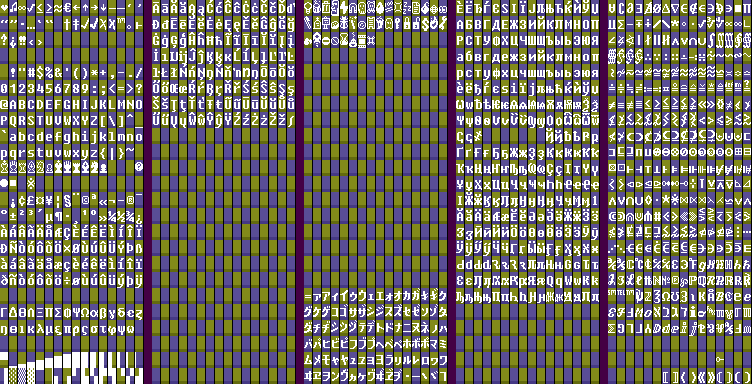
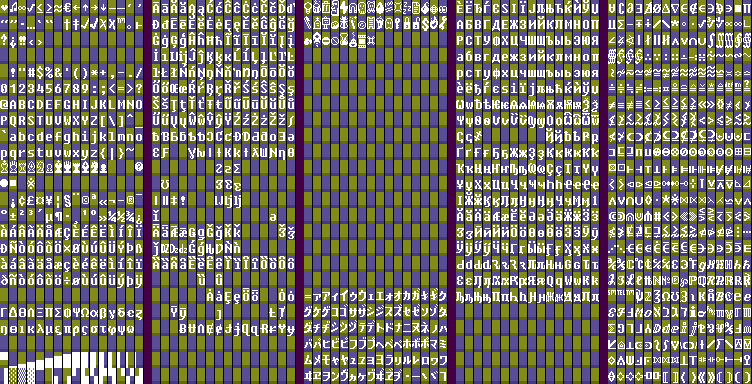
Bunch of Latin Extended-B chars in fixedersys1
git-svn-id: file:///home/runner/work/tom7misc-sync-action/tom7misc-sync-action/upstream/trunk@6498 c7e11af0-4c7a-11f1-9edd-117cb6f09d55

diff --git a/bit7/font-image.cc b/bit7/font-image.cc
@@ -350,27 +350,239 @@ const std::vector<int> &PageBit7LatinAB() {
     0x017E,  // (ž) Latin Small letter Z with caron
     0x017F,  // (ſ) Latin Small letter long S
 
-    // 128 unused slots
-    -1, -1, -1, -1, -1, -1, -1, -1, -1, -1, -1, -1, -1, -1, -1, -1,
-    -1, -1, -1, -1, -1, -1, -1, -1, -1, -1, -1, -1, -1, -1, -1, -1,
-    -1, -1, -1, -1, -1, -1, -1, -1, -1, -1, -1, -1, -1, -1, -1, -1,
-    -1, -1, -1, -1, -1, -1, -1, -1, -1, -1, -1, -1, -1, -1, -1, -1,
-    -1, -1, -1, -1, -1, -1, -1, -1, -1, -1, -1, -1, -1, -1, -1, -1,
-    -1, -1, -1, -1, -1, -1, -1, -1, -1, -1, -1, -1, -1, -1, -1, -1,
-    -1, -1, -1, -1, -1, -1, -1, -1, -1, -1, -1, -1, -1, -1, -1, -1,
-    -1, -1, -1, -1, -1, -1, -1, -1, -1, -1, -1, -1, -1, -1, -1, -1,
+    // Latin Extended-B
+    0x0180,  // (ƀ) Latin Small Letter B with Stroke
+    0x0181,  // (Ɓ) Latin Capital Letter B with Hook
+    0x0182,  // (Ƃ) Latin Capital Letter B with Top Bar
+    0x0183,  // (ƃ) Latin Small Letter B with Top Bar
+    0x0184,  // (Ƅ) Latin Capital Letter Tone Six
+    0x0185,  // (ƅ) Latin Small Letter Tone Six
+    0x0186,  // (Ɔ) Latin Capital Letter Open O
+    0x0187,  // (Ƈ) Latin Capital Letter C with Hook
+    0x0188,  // (ƈ) Latin Small Letter C with Hook
+    0x0189,  // (Ɖ) Latin Capital Letter African D
+    0x018A,  // (Ɗ) Latin Capital Letter D with Hook
+    0x018B,  // (Ƌ) Latin Capital Letter D with Top Bar
+    0x018C,  // (ƌ) Latin Small Letter D with Top Bar
+    0x018D,  // (ƍ) Latin Small Letter Turned Delta
+    0x018E,  // (Ǝ) Latin Capital Letter Reversed E
+    0x018F,  // (Ə) Latin Capital Letter Schwa
+    0x0190,  // (Ɛ) Latin Capital Letter Open E (= Latin Capital Letter Epsilon)
+    0x0191,  // (Ƒ) Latin Capital Letter F with Hook
+    0x0192,  // (ƒ) Latin Small Letter F with Hook
+    0x0193,  // (Ɠ) Latin Capital Letter G with Hook
+    0x0194,  // (Ɣ) Latin Capital Letter Gamma
+    0x0195,  // (ƕ) Latin Small Letter HV
+    0x0196,  // (Ɩ) Latin Capital Letter Iota
+    0x0197,  // (Ɨ) Latin Capital Letter I with Stroke
+    0x0198,  // (Ƙ) Latin Capital Letter K with Hook
+    0x0199,  // (ƙ) Latin Small Letter K with Hook
+    0x019A,  // (ƚ) Latin Small Letter L with Bar
+    0x019B,  // (ƛ) Latin Small Letter Lambda with Stroke
+    0x019C,  // (Ɯ) Latin Capital Letter Turned M
+    0x019D,  // (Ɲ) Latin Capital Letter N with Left Hook
+    0x019E,  // (ƞ) Latin Small Letter N with Long Right Leg
+    0x019F,  // (Ɵ) Latin Capital Letter O with Middle Tilde
+    0x01A0,  // (Ơ) Latin Capital Letter O with Horn
+    0x01A1,  // (ơ) Latin Small Letter O with Horn
+    0x01A2,  // (Ƣ) Latin Capital Letter OI (= Latin Capital Letter Gha)
+    0x01A3,  // (ƣ) Latin Small Letter OI (= Latin Small Letter Gha)
+    0x01A4,  // (Ƥ) Latin Capital Letter P with Hook
+    0x01A5,  // (ƥ) Latin Small Letter P with Hook
+    0x01A6,  // (Ʀ) Latin Letter YR
+    0x01A7,  // (Ƨ) Latin Capital Letter Tone Two
+    0x01A8,  // (ƨ) Latin Small Letter Tone Two
+    0x01A9,  // (Ʃ) Latin Capital Letter Esh
+    0x01AA,  // (ƪ) Latin Letter Reversed Esh Loop
+    0x01AB,  // (ƫ) Latin Small Letter T with Palatal Hook
+    0x01AC,  // (Ƭ) Latin Capital Letter T with Hook
+    0x01AD,  // (ƭ) Latin Small Letter T with Hook
+    0x01AE,  // (Ʈ) Latin Capital Letter T with Retroflex Hook
+    0x01AF,  // (Ư) Latin Capital Letter U with Horn
+    0x01B0,  // (ư) Latin Small Letter U with Horn
+    0x01B1,  // (Ʊ) Latin Capital Letter Upsilon
+    0x01B2,  // (Ʋ) Latin Capital Letter V with Hook
+    0x01B3,  // (Ƴ) Latin Capital Letter Y with Hook
+    0x01B4,  // (ƴ) Latin Small Letter Y with Hook
+    0x01B5,  // (Ƶ) Latin Capital Letter Z with Stroke
+    0x01B6,  // (ƶ) Latin Small Letter Z with Stroke
+    0x01B7,  // (Ʒ) Latin Capital Letter Ezh
+    0x01B8,  // (Ƹ) Latin Capital Letter Ezh Reversed
+    0x01B9,  // (ƹ) Latin Small Letter Ezh Reversed
+    0x01BA,  // (ƺ) Latin Small Letter Ezh with Tail
+    0x01BB,  // (ƻ) Latin Letter Two with Stroke
+    0x01BC,  // (Ƽ) Latin Capital Letter Tone Five
+    0x01BD,  // (ƽ) Latin Small Letter Tone Five
+    0x01BE,  // (ƾ) Latin Letter Inverted Glottal Stop with Stroke
+    0x01BF,  // (ƿ) Latin Letter Wynn
+    // African letters for clicks
+    0x01C0,  // (ǀ) Latin Letter Dental Click
+    0x01C1,  // (ǁ) Latin Letter Lateral Click
+    0x01C2,  // (ǂ) Latin Letter Alveolar Click
+    0x01C3,  // (ǃ) Latin Letter Retroflex Click
+    // Croatian digraphs matching Serbian Cyrillic letters
+    0x01C4,  // (Ǆ) Latin Capital Letter DZ with Caron
+    0x01C5,  // (ǅ) Latin Capital Letter D with Small Letter Z with Caron
+    0x01C6,  // (ǆ) Latin Small Letter DZ with Caron
+    0x01C7,  // (Ǉ) Latin Capital Letter LJ
+    0x01C8,  // (ǈ) Latin Capital Letter L with Small Letter J
+    0x01C9,  // (ǉ) Latin Small Letter LJ
+    0x01CA,  // (Ǌ) Latin Capital Letter NJ
+    0x01CB,  // (ǋ) Latin Capital Letter N with Small Letter J
+    0x01CC,  // (ǌ) Latin Small Letter NJ
+    // Pinyin diacritic-vowel combinations
+    0x01CD,  // (Ǎ) Latin Capital Letter A with Caron
+    0x01CE,  // (ǎ) Latin Small Letter A with Caron
+    0x01CF,  // (Ǐ) Latin Capital Letter I with Caron
+    0x01D0,  // (ǐ) Latin Small Letter I with Caron
+    0x01D1,  // (Ǒ) Latin Capital Letter O with Caron
+    0x01D2,  // (ǒ) Latin Small Letter O with Caron
+    0x01D3,  // (Ǔ) Latin Capital Letter U with Caron
+    0x01D4,  // (ǔ) Latin Small Letter U with Caron
+    0x01D5,  // (Ǖ) Latin Capital Letter U with Diaeresis and Macron
+    0x01D6,  // (ǖ) Latin Small Letter U with Diaeresis and Macron
+    0x01D7,  // (Ǘ) Latin Capital Letter U with Diaeresis and Acute
+    0x01D8,  // (ǘ) Latin Small Letter U with Diaeresis and Acute
+    0x01D9,  // (Ǚ) Latin Capital Letter U with Diaeresis and Caron
+    0x01DA,  // (ǚ) Latin Small Letter U with Diaeresis and Caron
+    0x01DB,  // (Ǜ) Latin Capital Letter U with Diaeresis and Grave
+    0x01DC,  // (ǜ) Latin Small Letter U with Diaeresis and Grave
+    // Phonetic and historic letters
+    0x01DD,  // (ǝ) Latin Small Letter Turned E
+    0x01DE,  // (Ǟ) Latin Capital Letter A with Diaeresis and Macron
+    0x01DF,  // (ǟ) Latin Small Letter A with Diaeresis and Macron
+    0x01E0,  // (Ǡ) Latin Capital Letter A with Dot Above and Macron
+    0x01E1,  // (ǡ) Latin Small Letter A with Dot Above and Macron
+    0x01E2,  // (Ǣ) Latin Capital Letter AE with Macron
+    0x01E3,  // (ǣ) Latin Small Letter AE with Macron
+    0x01E4,  // (Ǥ) Latin Capital Letter G with Stroke
+    0x01E5,  // (ǥ) Latin Small Letter G with Stroke
+    0x01E6,  // (Ǧ) Latin Capital Letter G with Caron
+    0x01E7,  // (ǧ) Latin Small Letter G with Caron
+    0x01E8,  // (Ǩ) Latin Capital Letter K with Caron
+    0x01E9,  // (ǩ) Latin Small Letter K with Caron
+    0x01EA,  // (Ǫ) Latin Capital Letter O with Ogonek
+    0x01EB,  // (ǫ) Latin Small Letter O with Ogonek
+    0x01EC,  // (Ǭ) Latin Capital Letter O with Ogonek and Macron
+    //          (=Latin Capital Letter O with Macron and Ogonek)
+    0x01ED,  // (ǭ) Latin Small Letter O with Ogonek and Macron
+    //          (=Latin Small Letter O with Macron and Ogonek)
+    0x01EE,  // (Ǯ) Latin Capital Letter Ezh with Caron
+    0x01EF,  // (ǯ) Latin Small Letter Ezh with Caron
+    0x01F0,  // (ǰ) Latin Small Letter J with Caron
+    0x01F1,  // (Ǳ) Latin Capital Letter DZ
+    0x01F2,  // (ǲ) Latin Capital Letter D with Small Letter Z
+    0x01F3,  // (ǳ) Latin Small Letter DZ
+    0x01F4,  // (Ǵ) Latin Capital Letter G with Acute
+    0x01F5,  // (ǵ) Latin Small Letter G with Acute
+    0x01F6,  // (Ƕ) Latin Capital Letter Hwair
+    0x01F7,  // (Ƿ) Latin Capital Letter Wynn
+    0x01F8,  // (Ǹ) Latin Capital Letter N with Grave
+    0x01F9,  // (ǹ) Latin Small Letter N with Grave
+    0x01FA,  // (Ǻ) Latin Capital Letter A with Ring Above and Acute
+    0x01FB,  // (ǻ) Latin Small Letter A with Ring Above and Acute
+    0x01FC,  // (Ǽ) Latin Capital Letter AE with Acute
+    0x01FD,  // (ǽ) Latin Small Letter AE with Acute
+    0x01FE,  // (Ǿ) Latin Capital Letter O with Stroke and Acute
+    0x01FF,  // (ǿ) Latin Small Letter O with Stroke and Acute
+    // Additions for Slovenian and Croatian
+    0x0200,  // (Ȁ) Latin Capital Letter A with Double Grave
+    0x0201,  // (ȁ) Latin Small Letter A with Double Grave
+    0x0202,  // (Ȃ) Latin Capital Letter A with Inverted Breve
+    0x0203,  // (ȃ) Latin Small Letter A with Inverted Breve
+    0x0204,  // (Ȅ) Latin Capital Letter E with Double Grave
+    0x0205,  // (ȅ) Latin Small Letter E with Double Grave
+    0x0206,  // (Ȇ) Latin Capital Letter E with Inverted Breve
+    0x0207,  // (ȇ) Latin Small Letter E with Inverted Breve
+    0x0208,  // (Ȉ) Latin Capital Letter I with Double Grave
+    0x0209,  // (ȉ) Latin Small Letter I with Double Grave
+    0x020A,  // (Ȋ) Latin Capital Letter I with Inverted Breve
+    0x020B,  // (ȋ) Latin Small Letter I with Inverted Breve
+    0x020C,  // (Ȍ) Latin Capital Letter O with Double Grave
+    0x020D,  // (ȍ) Latin Small Letter O with Double Grave
+    0x020E,  // (Ȏ) Latin Capital Letter O with Inverted Breve
+    0x020F,  // (ȏ) Latin Small Letter O with Inverted Breve
+    0x0210,  // (Ȑ) Latin Capital Letter R with Double Grave
+    0x0211,  // (ȑ) Latin Small Letter R with Double Grave
+    0x0212,  // (Ȓ) Latin Capital Letter R with Inverted Breve
+    0x0213,  // (ȓ) Latin Small Letter R with Inverted Breve
+    0x0214,  // (Ȕ) Latin Capital Letter U with Double Grave
+    0x0215,  // (ȕ) Latin Small Letter U with Double Grave
+    0x0216,  // (Ȗ) Latin Capital Letter U with Inverted Breve
+    0x0217,  // (ȗ) Latin Small Letter U with Inverted Breve
+    // Additions for Romanian
+    0x0218,  // (Ș) Latin Capital Letter S with Comma Below
+    0x0219,  // (ș) Latin Small Letter S with Comma Below
+    0x021A,  // (Ț) Latin Capital Letter T with Comma Below
+    0x021B,  // (ț) Latin Small Letter T with Comma Below
+    // Miscellaneous additions
+    0x021C,  // (Ȝ) Latin Capital Letter Yogh
+    0x021D,  // (ȝ) Latin Small Letter Yogh
+    0x021E,  // (Ȟ) Latin Capital Letter H with Caron
+    0x021F,  // (ȟ) Latin Small Letter H with Caron
+    0x0220,  // (Ƞ) Latin Capital Letter N with Long Right Leg
+    0x0221,  // (ȡ) Latin Small Letter D with Curl
+    0x0222,  // (Ȣ) Latin Capital Letter OU
+    0x0223,  // (ȣ) Latin Small Letter OU
+    0x0224,  // (Ȥ) Latin Capital Letter Z with Hook
+    0x0225,  // (ȥ) Latin Small Letter Z with Hook
+    0x0226,  // (Ȧ) Latin Capital Letter A with Dot Above
+    0x0227,  // (ȧ) Latin Small Letter A with Dot Above
+    0x0228,  // (Ȩ) Latin Capital Letter E with Cedilla
+    0x0229,  // (ȩ) Latin Small Letter E with Cedilla
+    // Additions for Livonian
+    0x022A,  // (Ȫ) Latin Capital Letter O with Diaeresis and Macron
+    0x022B,  // (ȫ) Latin Small Letter O with Diaeresis and Macron
+    0x022C,  // (Ȭ) Latin Capital Letter O with Tilde and Macron
+    0x022D,  // (ȭ) Latin Small Letter O with Tilde and Macron
+    0x022E,  // (Ȯ) Latin Capital Letter O with Dot Above
+    0x022F,  // (ȯ) Latin Small Letter O with Dot Above
+    0x0230,  // (Ȱ) Latin Capital Letter O with Dot Above and Macron
+    0x0231,  // (ȱ) Latin Small Letter O with Dot Above and Macron
+    0x0232,  // (Ȳ) Latin Capital Letter Y with Macron
+    0x0233,  // (ȳ) Latin Small Letter Y with Macron
+    // Additions for Sinology
+    0x0234,  // (ȴ) Latin Small Letter L with Curl
+    0x0235,  // (ȵ) Latin Small Letter N with Curl
+    0x0236,  // (ȶ) Latin Small Letter T with Curl
+    // Miscellaneous addition
+    0x0237,  // (ȷ) Latin Small Letter Dotless J
+    // Additions for Africanist linguistics
+    0x0238,  // (ȸ) Latin Small Letter DB Digraph
+    0x0239,  // (ȹ) Latin Small Letter QP Digraph
+    // Additions for Sencoten
+    0x023A,  // (Ⱥ) Latin Capital Letter A with Stroke
+    0x023B,  // (Ȼ) Latin Capital Letter C with Stroke
+    0x023C,  // (ȼ) Latin Small Letter C with Stroke
+    0x023D,  // (Ƚ) Latin Capital Letter L with Bar
+    0x023E,  // (Ⱦ) Latin Capital Letter T with Diagonal Stroke
+    // Additions for Africanist linguistics
+    0x023F,  // (ȿ) Latin Small Letter S with Swash Tail
+    0x0240,  // (ɀ) Latin Small Letter Z with Swash Tail
+    // Miscellaneous additions
+    0x0241,  // (Ɂ) Latin Capital Letter Glottal Stop
+    0x0242,  // (ɂ) Latin Small Letter Glottal Stop
+    0x0243,  // (Ƀ) Latin Capital Letter B with Stroke
+    0x0244,  // (Ʉ) Latin Capital Letter U Bar
+    0x0245,  // (Ʌ) Latin Capital Letter Turned V
+    0x0246,  // (Ɇ) Latin Capital Letter E with Stroke
+    0x0247,  // (ɇ) Latin Small Letter E with Stroke
+    0x0248,  // (Ɉ) Latin Capital Letter J with Stroke
+    0x0249,  // (ɉ) Latin Small Letter J with Stroke
+    0x024A,  // (Ɋ) Latin Capital Letter Q with Hook Tail
+    0x024B,  // (ɋ) Latin Small Letter Q with Hook Tail
+    0x024C,  // (Ɍ) Latin Capital Letter R with Stroke
+    0x024D,  // (ɍ) Latin Small Letter R with Stroke
+    0x024E,  // (Ɏ) Latin Capital Letter Y with Stroke
+    0x024F,  // (ɏ) Latin Small Letter Y with Stroke
 
-    // 128 more unused slots
-    -1, -1, -1, -1, -1, -1, -1, -1, -1, -1, -1, -1, -1, -1, -1, -1,
-    -1, -1, -1, -1, -1, -1, -1, -1, -1, -1, -1, -1, -1, -1, -1, -1,
-    -1, -1, -1, -1, -1, -1, -1, -1, -1, -1, -1, -1, -1, -1, -1, -1,
-    -1, -1, -1, -1, -1, -1, -1, -1, -1, -1, -1, -1, -1, -1, -1, -1,
-    -1, -1, -1, -1, -1, -1, -1, -1, -1, -1, -1, -1, -1, -1, -1, -1,
+    // 48 unused slots
     -1, -1, -1, -1, -1, -1, -1, -1, -1, -1, -1, -1, -1, -1, -1, -1,
     -1, -1, -1, -1, -1, -1, -1, -1, -1, -1, -1, -1, -1, -1, -1, -1,
     -1, -1, -1, -1, -1, -1, -1, -1, -1, -1, -1, -1, -1, -1, -1, -1,
   };
 
+  CHECK(CODEPOINTS.size() == 16 * 24) << CODEPOINTS.size();
   return CODEPOINTS;
 }
 
@@ -1461,10 +1673,17 @@ REUSE_FOR = {
   // Same for square
   {0x25A0, 0x23F9},
 
-  // Various for IPA (Latin Extended B)
+  // Various for IPA, Latin Extended B
   {0x03A3, 0x01A9}, // Greek Σ -> esh
   {'!', 0x01C3},
   {0x04D9, 0x0259}, // Cyrillic schwa -> IPA schwa
+  {0x04D9, 0x01DD}, // Cyrillic schwa -> Phoenecian turned e
+  {0x03A3, 0x01A9}, // Greek Sigma -> Capital Esh
+  {0x0510, 0x0190}, // Cyrillic reversed Ze -> Open E
+  {0x0511, 0x025B}, // Cyrillic reversed ze -> Open e
+
+  {0x04E0, 0x01B7}, // Cyrillic Capital Abkhasian Dze -> Ezh
+  {0x04E1, 0x0292}, // Lowercase dze -> ezh
 
   // Letter-like symbols that are REALLY letter-like.
   // Kelvin
